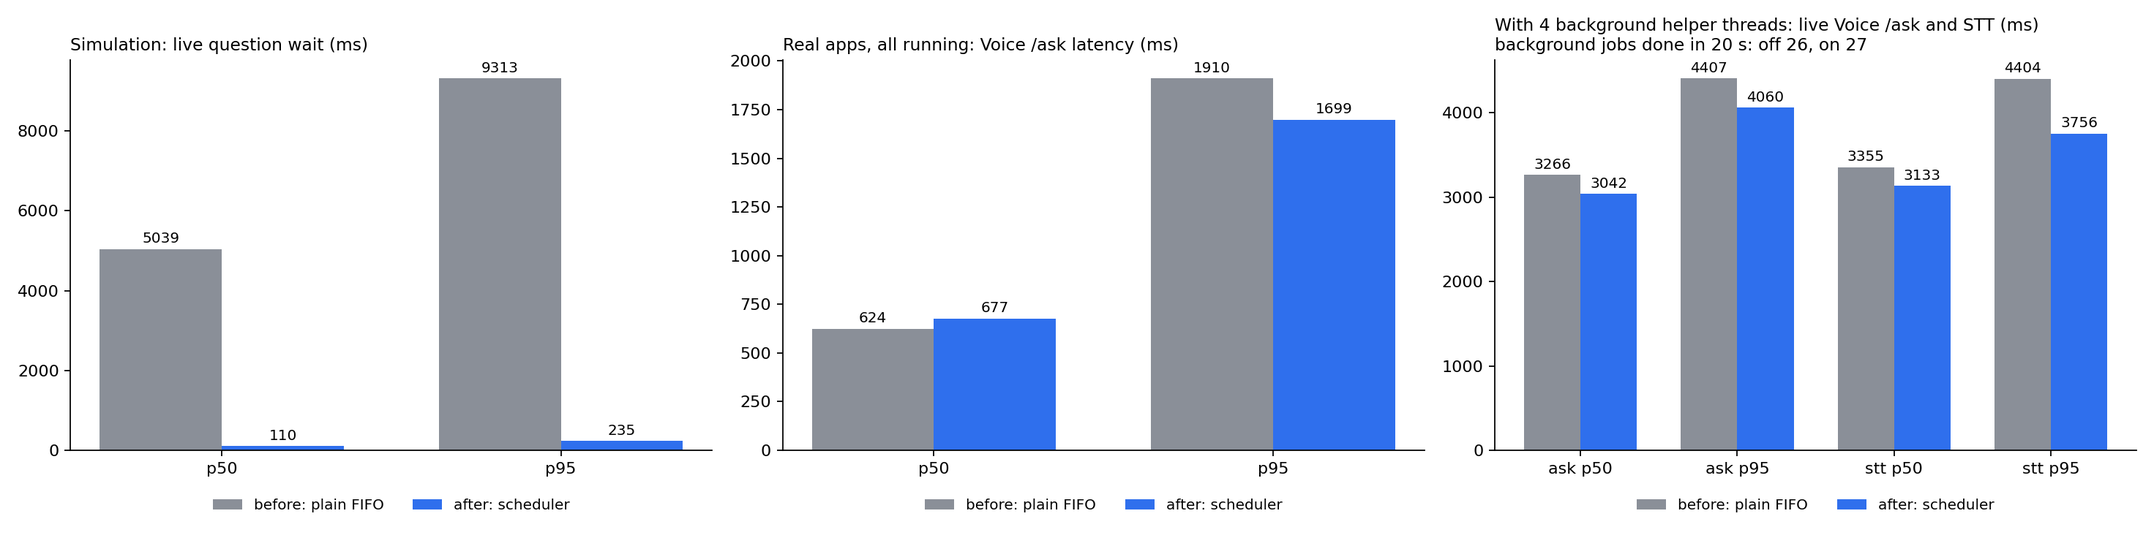
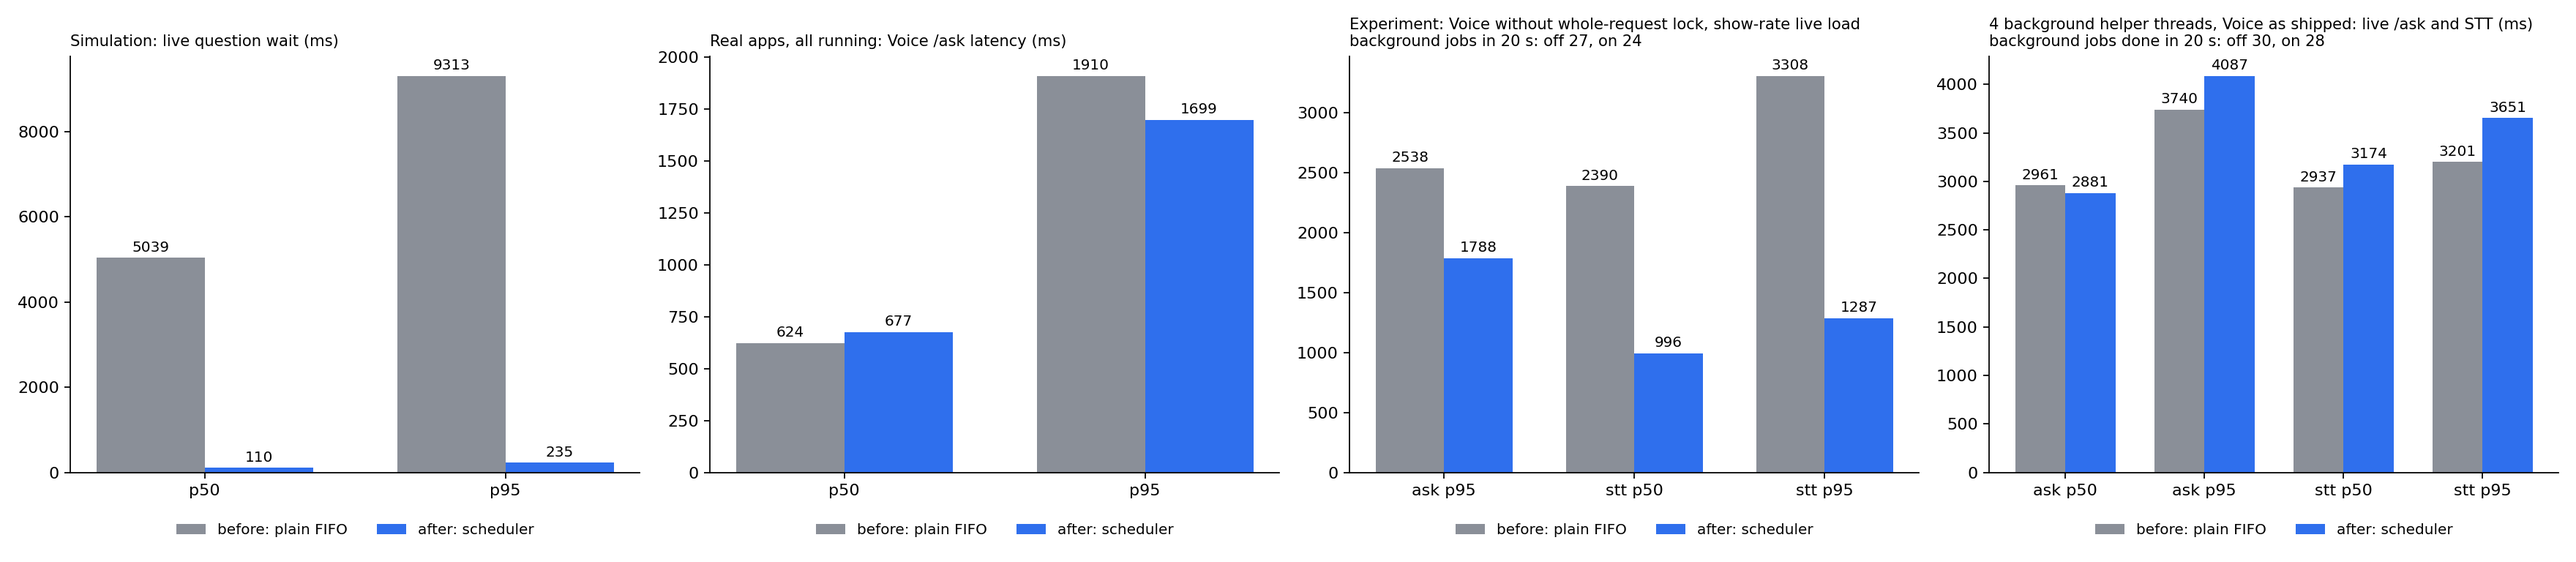
Perf doc: why the gate saw no queue (profile lock), scheduler effect without it, why the helper LLM is on CPU

diff --git a/tools/chart_sched.py b/tools/chart_sched.py
@@ -35,6 +35,10 @@ def main():
     ap.add_argument("--bg-on", nargs="+", default=[],
                     help="perf_load files made with --helpers, scheduler on (averaged)")
     ap.add_argument("--bg-off", nargs="+", default=[], help="same, scheduler off")
+    ap.add_argument("--bg2-on", nargs="+", default=[],
+                    help="like --bg-on, for a second condition (e.g. Voice without the whole-request profile lock)")
+    ap.add_argument("--bg2-off", nargs="+", default=[])
+    ap.add_argument("--bg2-title", default="Same, without the Voice whole-request lock")
     ap.add_argument("--out", required=True)
     a = ap.parse_args()
 
@@ -49,20 +53,26 @@ def main():
         off = json.loads(Path(a.off).read_text(encoding="utf-8"))["together"]["voice"]
         panels.append(("Real apps, all running: Voice /ask latency (ms)", "latency",
                        [off["med_ms"], off["p95_ms"]], [on["med_ms"], on["p95_ms"]]))
+    def avg(files, key, field):
+        vals = [json.loads(Path(f).read_text(encoding="utf-8"))["together"][key][field] for f in files]
+        return statistics.mean(vals)
+    if a.bg2_on and a.bg2_off:
+        keys2 = [("voice", "p95_ms"), ("stt", "med_ms"), ("stt", "p95_ms")]
+        panels.append((a.bg2_title + "\nbackground jobs in 20 s: off %.0f, on %.0f"
+                       % (avg(a.bg2_off, "helper", "calls"), avg(a.bg2_on, "helper", "calls")), "bg2",
+                       [avg(a.bg2_off, k, f) for k, f in keys2], [avg(a.bg2_on, k, f) for k, f in keys2],
+                       ["ask p95", "stt p50", "stt p95"]))
     if a.bg_on and a.bg_off:
-        def avg(files, key, field):
-            vals = [json.loads(Path(f).read_text(encoding="utf-8"))["together"][key][field] for f in files]
-            return statistics.mean(vals)
         keys = [("voice", "med_ms"), ("voice", "p95_ms"), ("stt", "med_ms"), ("stt", "p95_ms")]
         jobs_on, jobs_off = avg(a.bg_on, "helper", "calls"), avg(a.bg_off, "helper", "calls")
-        panels.append(("With 4 background helper threads: live Voice /ask and STT (ms)\n"
+        panels.append(("4 background helper threads, Voice as shipped: live /ask and STT (ms)\n"
                        "background jobs done in 20 s: off %.0f, on %.0f" % (jobs_off, jobs_on), "bg",
                        [avg(a.bg_off, k, f) for k, f in keys], [avg(a.bg_on, k, f) for k, f in keys],
                        ["ask p50", "ask p95", "stt p50", "stt p95"]))
     if not panels:
         raise SystemExit("no input files found")
 
-    fig, axes = plt.subplots(1, len(panels), figsize=(5.6 * len(panels) + (1.6 if len(panels) > 2 else 0), 4.6), dpi=160, squeeze=False)
+    fig, axes = plt.subplots(1, len(panels), figsize=(5.2 * len(panels) + (1.2 if len(panels) > 2 else 0), 4.8), dpi=160, squeeze=False)
     for ax, (title, _, before, after, *lab) in zip(axes[0], panels):
         xs = list(range(len(before)))
         w = 0.36
@@ -74,7 +84,7 @@ def main():
                             ha="center", va="bottom", fontsize=9, xytext=(0, 2), textcoords="offset points")
         ax.set_xticks(xs)
         ax.set_xticklabels(lab[0] if lab else ["p50", "p95"])
-        ax.set_title(title, fontsize=10.5, loc="left")
+        ax.set_title(title, fontsize=9.5, loc="left")
         ax.spines[["top", "right"]].set_visible(False)
         ax.legend(frameon=False, fontsize=9, loc="upper center", bbox_to_anchor=(0.5, -0.09), ncol=2)
     fig.tight_layout()

diff --git a/docs/perf_scheduler_2026-11-25.md b/docs/perf_scheduler_2026-11-25.md
@@ -88,6 +88,68 @@ FAQ does not use the gate at all. To make the gate the limit, the background job
 the live job must also take the gate (a question that needs the local model), or the work before the
 gate must stop serializing. That is a finding for the PR, not a result of the scheduler.
 
+## 2c. Why section 2b showed nothing, and what the scheduler does once that is out of the way
+
+**Re-test with the pool fix (`6b11e610`, a single job skips the FIFO pool).** Same load as 2b, 2 runs each.
+Gate wait stayed 0 ms in every class and latency stayed about 3 s (voice `/ask` 2784 to 2994 ms p50 both
+ways, STT 2831 to 3262 ms). The pool was not the only thing in front of the gate.
+
+**Cause found: `apps/voice/profiles.py` `guarded()`.** It wraps every `do_GET` and `do_POST` of the Voice
+HTTP handler in `with brain.profile_lock:` (a `threading.RLock`), so the whole request, including
+the time it waits at the priority gate and runs the model, holds one global lock. Requests reach the gate
+one at a time, in arrival order, and the priority gate never sees a queue. (The lock exists so that a character
+switch cannot split a request between two characters.)
+
+**Experiment, not shipped:** a harness (outside the repo) replaced `guarded` by the identity before
+`service.py` imported it, so requests no longer share that lock. Everything else is the branch as pushed.
+Two runs per setting. Scheduler OFF = `lease.enabled=false` and every class at priority 5.
+
+Live load flat out (each live workload loops as fast as it is answered; helper = 4 background threads),
+median / p95 ms and calls in 20 s:
+
+| | OFF 1 | OFF 2 | ON 1 | ON 2 |
+|---|---|---|---|---|
+| voice `/ask` (saved-answer path) | 44 / 3322 (28 calls) | 45 / 3765 (23) | 60 / 1423 (58) | 51 / 1424 (58) |
+| stt `/transcribe` | 3175 / 3675 (7) | 3902 / 4053 (6) | 1630 / 1793 (13) | 1613 / 1760 (13) |
+| background helper jobs done | 22 | 24 | 5 | 5 |
+| gate wait, helper (p50) | 2719 ms | 3031 ms | 21047 ms | 2750 ms* |
+
+*Voice scheduler stats are cumulative since the process started, so the second ON column mixes in the
+earlier runs. The first ON run is the clean one: live waited 593 ms p50, helper 21 s.
+
+With a live load that never pauses, the background class waits almost the whole 20 s (5 jobs against 22 to 24):
+priority works, and this is the stress case, not a show.
+
+Show-rate live load (`perf_load.py --real`: voice and stt 0.5 Hz, face 10 Hz; helper 4 threads flat out):
+
+| | OFF 1 | OFF 2 | ON 1 | ON 2 |
+|---|---|---|---|---|
+| voice `/ask` p50 / p95 | 51 / 2353 | 57 / 2722 | 64 / 1623 | 46 / 1954 |
+| stt p50 / p95 | 2593 / 3017 | 2187 / 3599 | 1023 / 1306 | 968 / 1269 |
+| background helper jobs done | 27 | 27 | 23 | 24 |
+| background helper call p50 | 2250 | 2379 | 3388 | 3110 |
+
+Means, OFF to ON: STT p50 2390 to 996 ms (2.4 times faster), STT p95 3308 to 1287 ms, `/ask` p95
+2538 to 1788 ms, background throughput 27 to 23.5 jobs (13% fewer; each background call waits about 1 s longer).
+Live work gets clearly faster, background work is slowed a little and not starved.
+
+Not done and not claimed: the fix itself. Removing the whole-request lock is a concurrency change in
+Voice (everything behind it was serialized by it, including model loading and the cached state in `Brain`),
+so it needs its own change and its own checks. A shared/exclusive lock is the likely shape: ordinary
+requests share it, and only the calls that change the active character or the stores (`POST /profiles`,
+`/config`, `/faq`, `/keys`, `/preload`, `/unload`) take it exclusively. The `/ask` saved-answer
+path also does not take the gate (it needs no model), so it is not ordered by the scheduler.
+
+## 2d. Why the helper model runs on the CPU
+
+`GET /health` on the branch Voice: `llmDevice: {device: "cpu", cpuBecause: "no usable GPU in the plan (1 seen,
+torch.cuda=False ...)"}`. The cause on this PC: `torch 2.15.0+cpu` (a CPU-only wheel, `torch.version.cuda` is
+None) in `C:\Program Files\Python312`. The GPU is fine: Whisper runs on it through CTranslate2 and the plan sees
+the RTX 5070 Ti with 12227 MiB, 6138 MiB free. `docs/bridge_archive` records `torch 2.11.0+cu128` on this PC in
+October, so a later plain `pip install -U torch` (PyPI serves the CPU wheel on Windows) most likely replaced
+the CUDA build. PyTorch's CUDA index offers `+cu128` up to 2.11.0 and `+cu130` up to 2.14.1.
+The in-process Qwen2.5-0.5B is only the backup of the Ollama model (Ollama was not running during these tests).
+
 ## 3. How this was run
 
 * The real hub (`MiceHub.exe` on 8642), the real Voice (8767) and the face app (8000) were left
@@ -97,7 +159,7 @@ gate must stop serializing. That is a finding for the PR, not a result of the sc
   `config/scheduler.json` `lease.hubUrl` and `config/perf_load.json` `voice`/`stt_clips` were pointed
   at the side ports for the runs and put back afterwards.
 * The camera load read the real hub's shared stream (`pc:FHD Camera`), the same in every run.
-* Chart: `python tools/chart_sched.py --sim .local/perf/sched_sim.json --on .local/perf/sched_on.json --off .local/perf/sched_off.json --bg-on .local/perf/bg_on1.json .local/perf/bg_on2.json --bg-off .local/perf/bg_off1.json .local/perf/bg_off2.json --out docs/img/perf_scheduler_2026-11-25.png`.
+* Chart: `python tools/chart_sched.py --sim .local/perf/sched_sim.json --on .local/perf/sched_on.json --off .local/perf/sched_off.json --bg-on .local/perf/bg2_on1.json .local/perf/bg2_on2.json --bg-off .local/perf/bg2_off1.json .local/perf/bg2_off2.json --bg2-on .local/perf/bg4_on1.json .local/perf/bg4_on2.json --bg2-off .local/perf/bg4_off1.json .local/perf/bg4_off2.json --bg2-title "Experiment: Voice without whole-request lock, show-rate live load" --out docs/img/perf_scheduler_2026-11-25.png` (the chart's 4th panel is the shipped Voice with the pool fix, section 2c; section 2b's first runs are `bg_*`).
 
 ## 4. QC status on this PC (not final)
 
